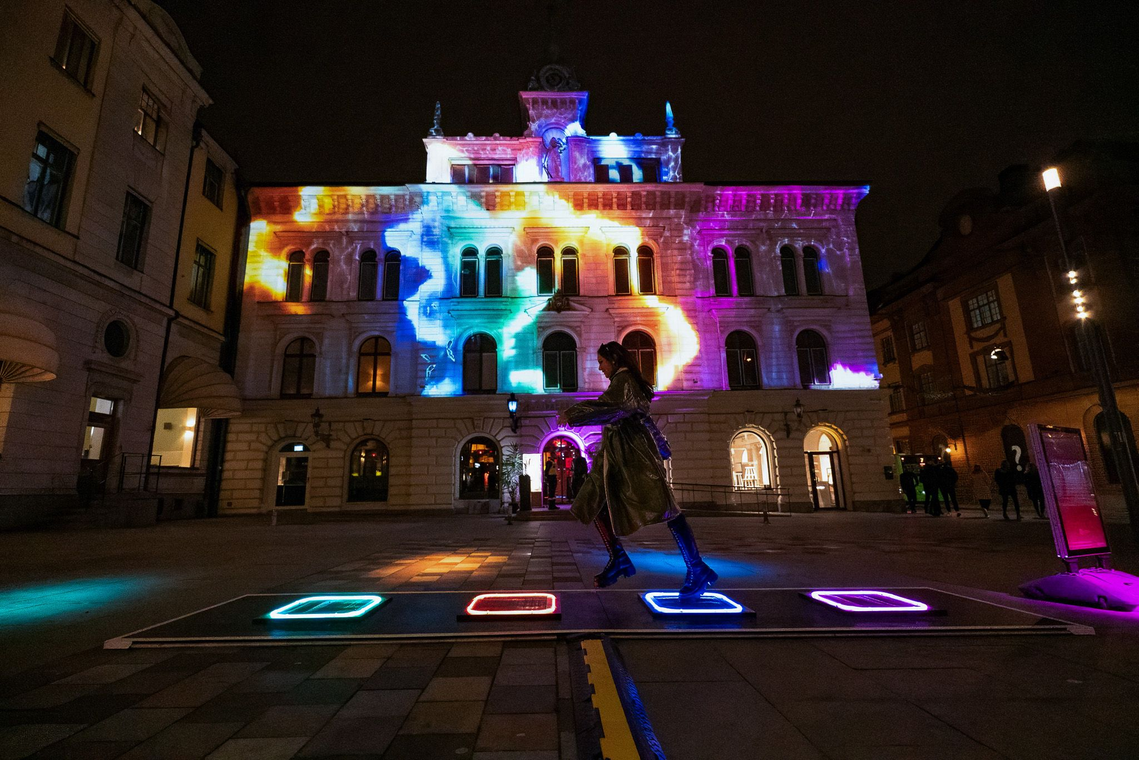
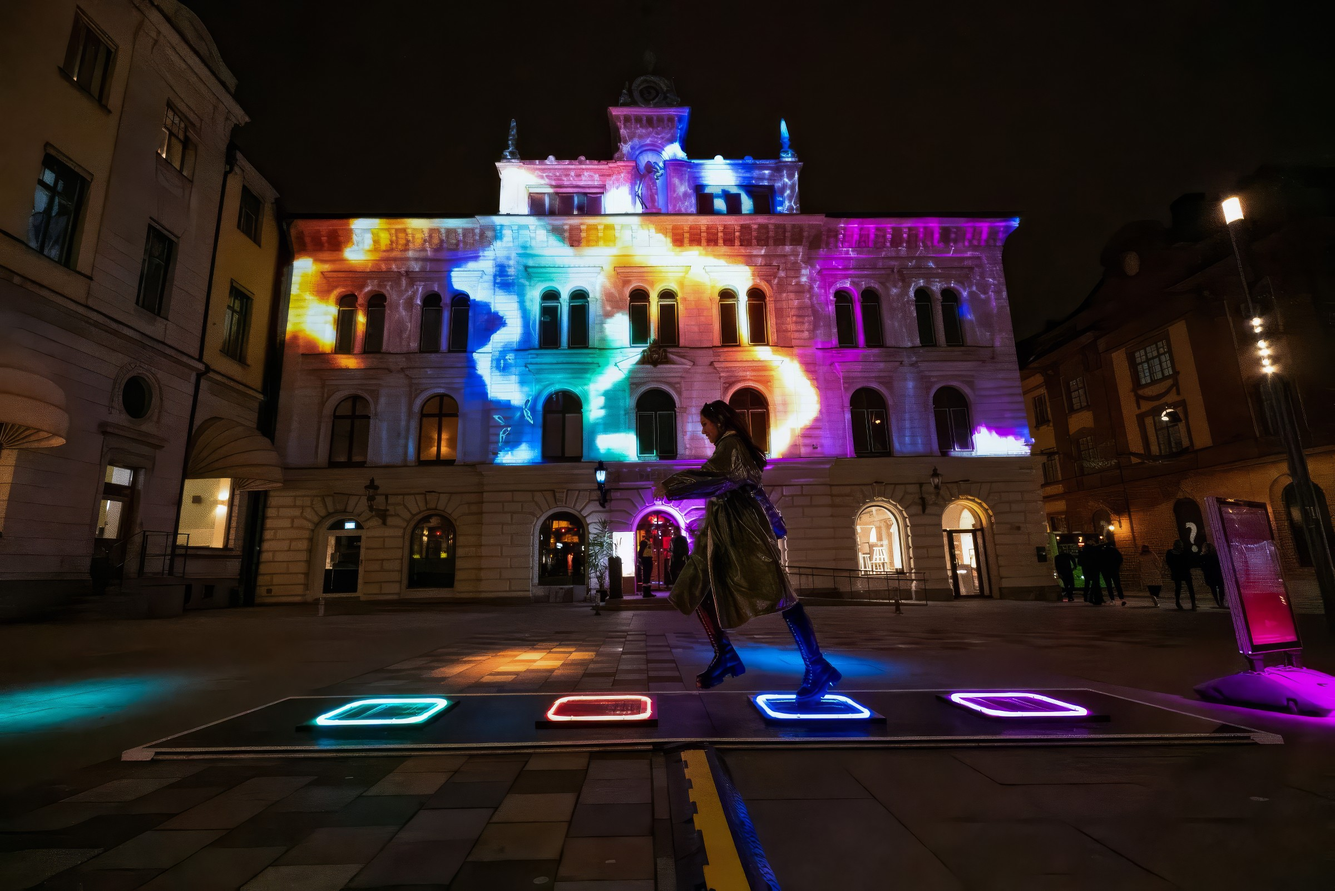
Resonance: replace source images with higher-resolution versions
Every image gains resolution, most of them substantially: 03 goes from
2.0 to 6.2MP, 04 from 3.8 to 7.7MP, 05 from 1.3 to 6.4MP. 01 keeps its
4K dimensions at a higher quality setting, and 02 gains about a third
more pixels. The three PNGs become JPEGs, so the repository gets lighter
by roughly 8MB even though the pictures are bigger.

Extensions normalised to .jpg to match the rest of the projects. The old
files had to go rather than sit alongside the new ones: the project's
image list is built by scanning the directory, so keeping both sets
would have given the page ten images instead of five.

Claude-Session: https://claude.ai/code/session_01WU2AfVhbHWvJpBmc9JL9jc

diff --git a/projects/resonance/data.md b/projects/resonance/data.md
@@ -30,11 +30,11 @@ blocks:
       drone-scanned to build a digital replica. Built together with
       [Rose Hallgren](https://rosehallgren.se/).
   - type: image
-    src: 03.png
+    src: 03.jpg
   - type: image
-    src: 04.png
+    src: 04.jpg
   - type: image
-    src: 05.png
+    src: 05.jpg
   - type: credits
     credits:
       - "Made with: [Smash Studio](https://www.smash.studio/), [Rose Hallgren](https://rosehallgren.se/)"
